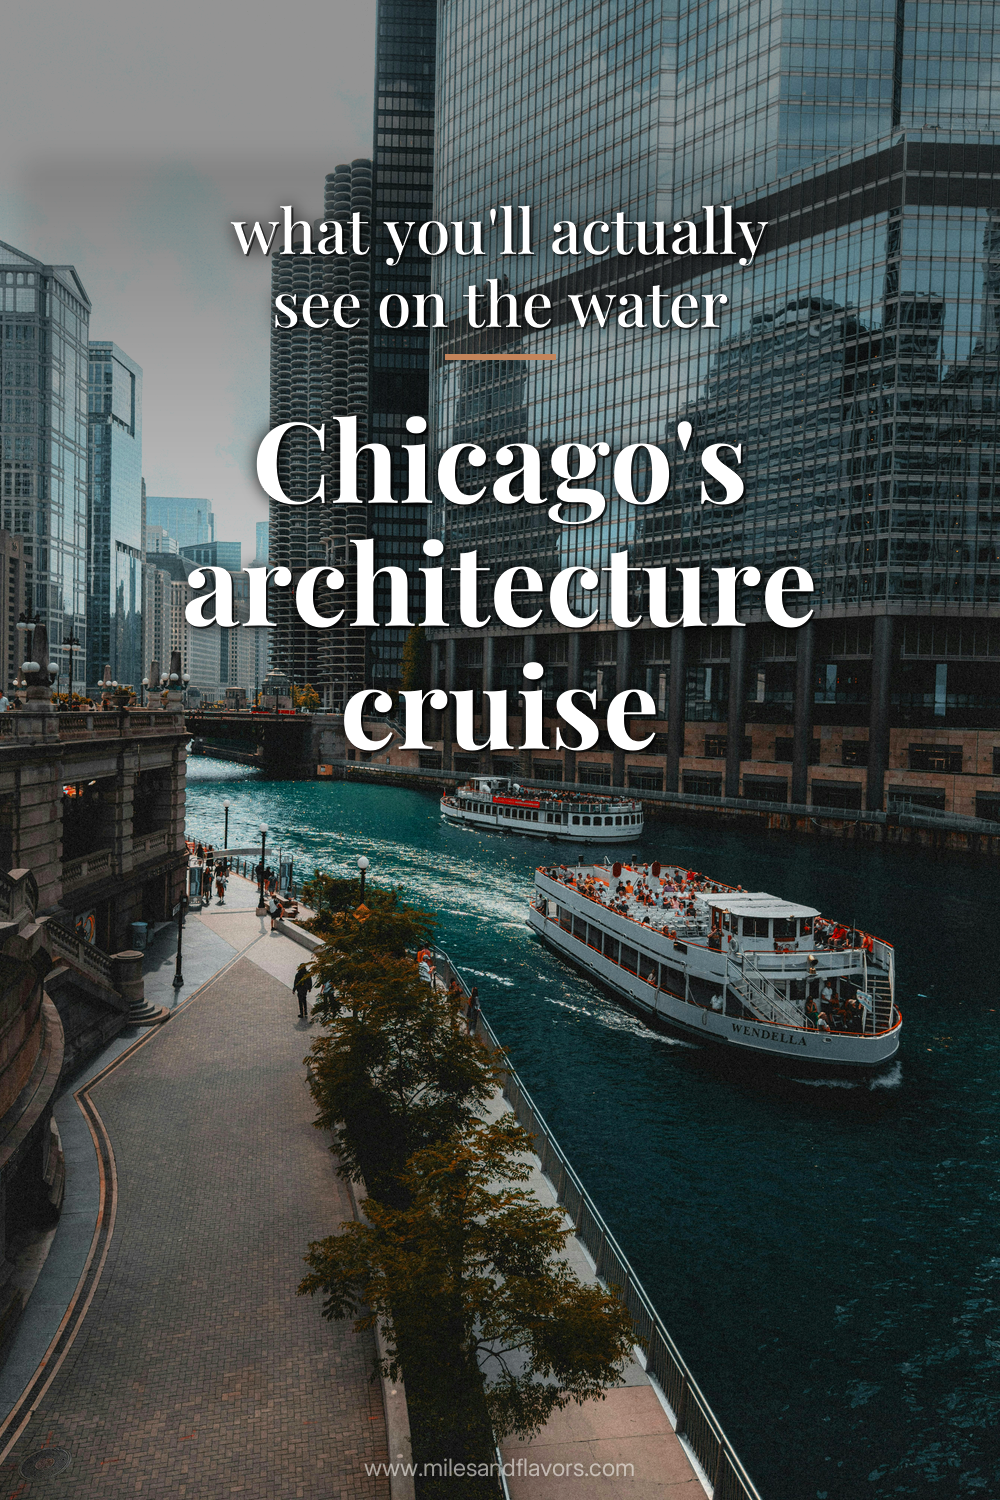
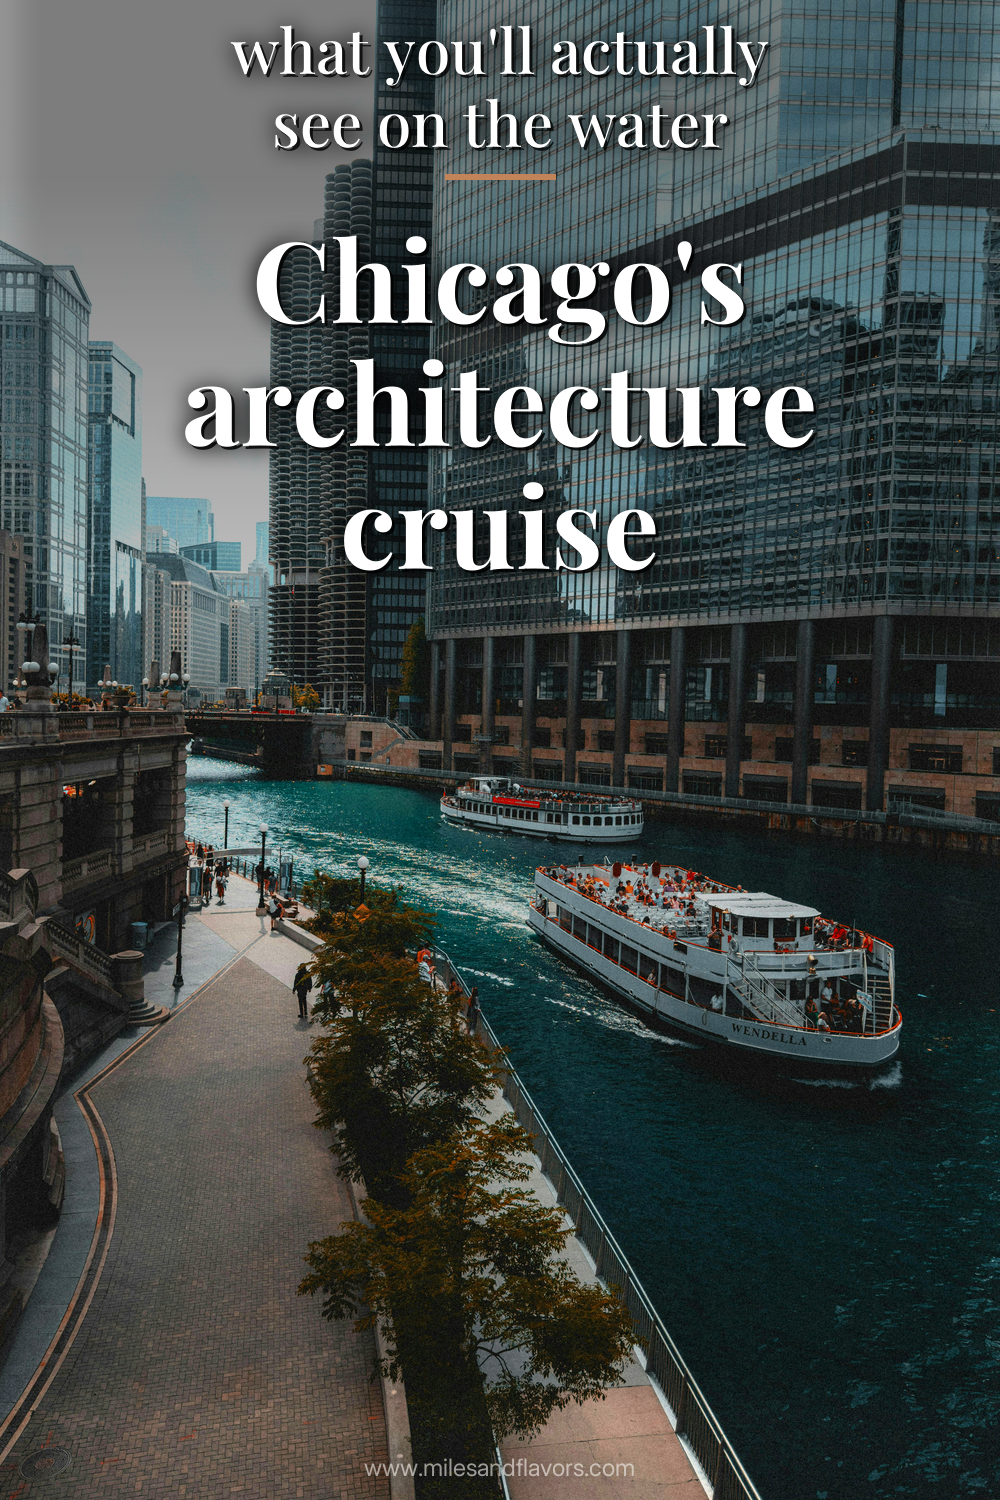
Boost vibrance + text contrast in render pipeline
- Vibrance 1.18 -> 1.30
- Light template overlay alpha 28->40, brightness 1.10->1.16
- Stronger drop shadows on title/subtitle (offset + alpha)
- Stronger glow blur behind all text (radius 8->11, full opacity)

Re-rendered all 14 currently unposted pins with the new pipeline.

Changed region(s): [[0.155, 0.0, 0.837, 0.5213]]

diff --git a/render.py b/render.py
@@ -255,8 +255,8 @@ def parse_template(template):
         overlay_alpha = 100
         brightness = 1.0
     elif "light" in t:
-        overlay_alpha = 28
-        brightness = 1.10
+        overlay_alpha = 40
+        brightness = 1.16
     elif "medium" in t:
         overlay_alpha = 50
         brightness = 1.0
@@ -280,7 +280,7 @@ def render_hybrid_pin(bold, light, photos, zone_override=None, overlay_alpha=90,
     raw_photo = cover(photos[0], W, H)
     if brightness != 1.0:
         raw_photo = ImageEnhance.Brightness(raw_photo).enhance(brightness)
-    raw_photo = ImageEnhance.Color(raw_photo).enhance(1.18)  # vibrance boost (user-confirmed 2026-08-03)
+    raw_photo = ImageEnhance.Color(raw_photo).enhance(1.30)  # vibrance boost (increased 2026-08-04 per user feedback)
     base.paste(raw_photo, (0, 0))
 
     # 2. Szöveg zóna: ha van Template override, azt használjuk; különben auto-detect
@@ -349,8 +349,8 @@ def render_hybrid_pin(bold, light, photos, zone_override=None, overlay_alpha=90,
     if light:
         for ln in L2:
             # Árnyék a subtitle mögé — extra kontrasztért mobil nézeten
-            fd.text((W//2 + 2, y + 2), ln, font=font(PLAYFAIR, t2, 500),
-                    fill=(0, 0, 0, 160), anchor="ma")
+            fd.text((W//2 + 3, y + 3), ln, font=font(PLAYFAIR, t2, 500),
+                    fill=(0, 0, 0, 200), anchor="ma")
             fd.text((W//2, y), ln, font=font(PLAYFAIR, t2, 500),
                     fill=(*WHITE, 255), anchor="ma")
             y += lh2
@@ -364,8 +364,8 @@ def render_hybrid_pin(bold, light, photos, zone_override=None, overlay_alpha=90,
 
     # Főcím — nagy, domináns (drop shadow + szöveg)
     for ln in L1:
-        fd.text((W//2 + 2, y + 2), ln, font=font(PLAYFAIR, t1, 700),
-                fill=(0, 0, 0, 175), anchor="ma")
+        fd.text((W//2 + 3, y + 3), ln, font=font(PLAYFAIR, t1, 700),
+                fill=(0, 0, 0, 215), anchor="ma")
         fd.text((W//2, y), ln, font=font(PLAYFAIR, t1, 700),
                 fill=(*col_bold, 255), anchor="ma")
         y += lh1
@@ -376,8 +376,8 @@ def render_hybrid_pin(bold, light, photos, zone_override=None, overlay_alpha=90,
 
     # Puha glowing árnyék az összes szöveg mögé (erősebb mint korábban)
     sh = Image.new("RGBA", (W, H), (0,0,0,0))
-    sh.putalpha(fg.split()[3].point(lambda a: int(a * 0.90)))
-    sh = sh.filter(ImageFilter.GaussianBlur(8))
+    sh.putalpha(fg.split()[3].point(lambda a: int(a * 1.0)))
+    sh = sh.filter(ImageFilter.GaussianBlur(11))
     base = Image.alpha_composite(base, sh)
 
     base = Image.alpha_composite(base, fg)
